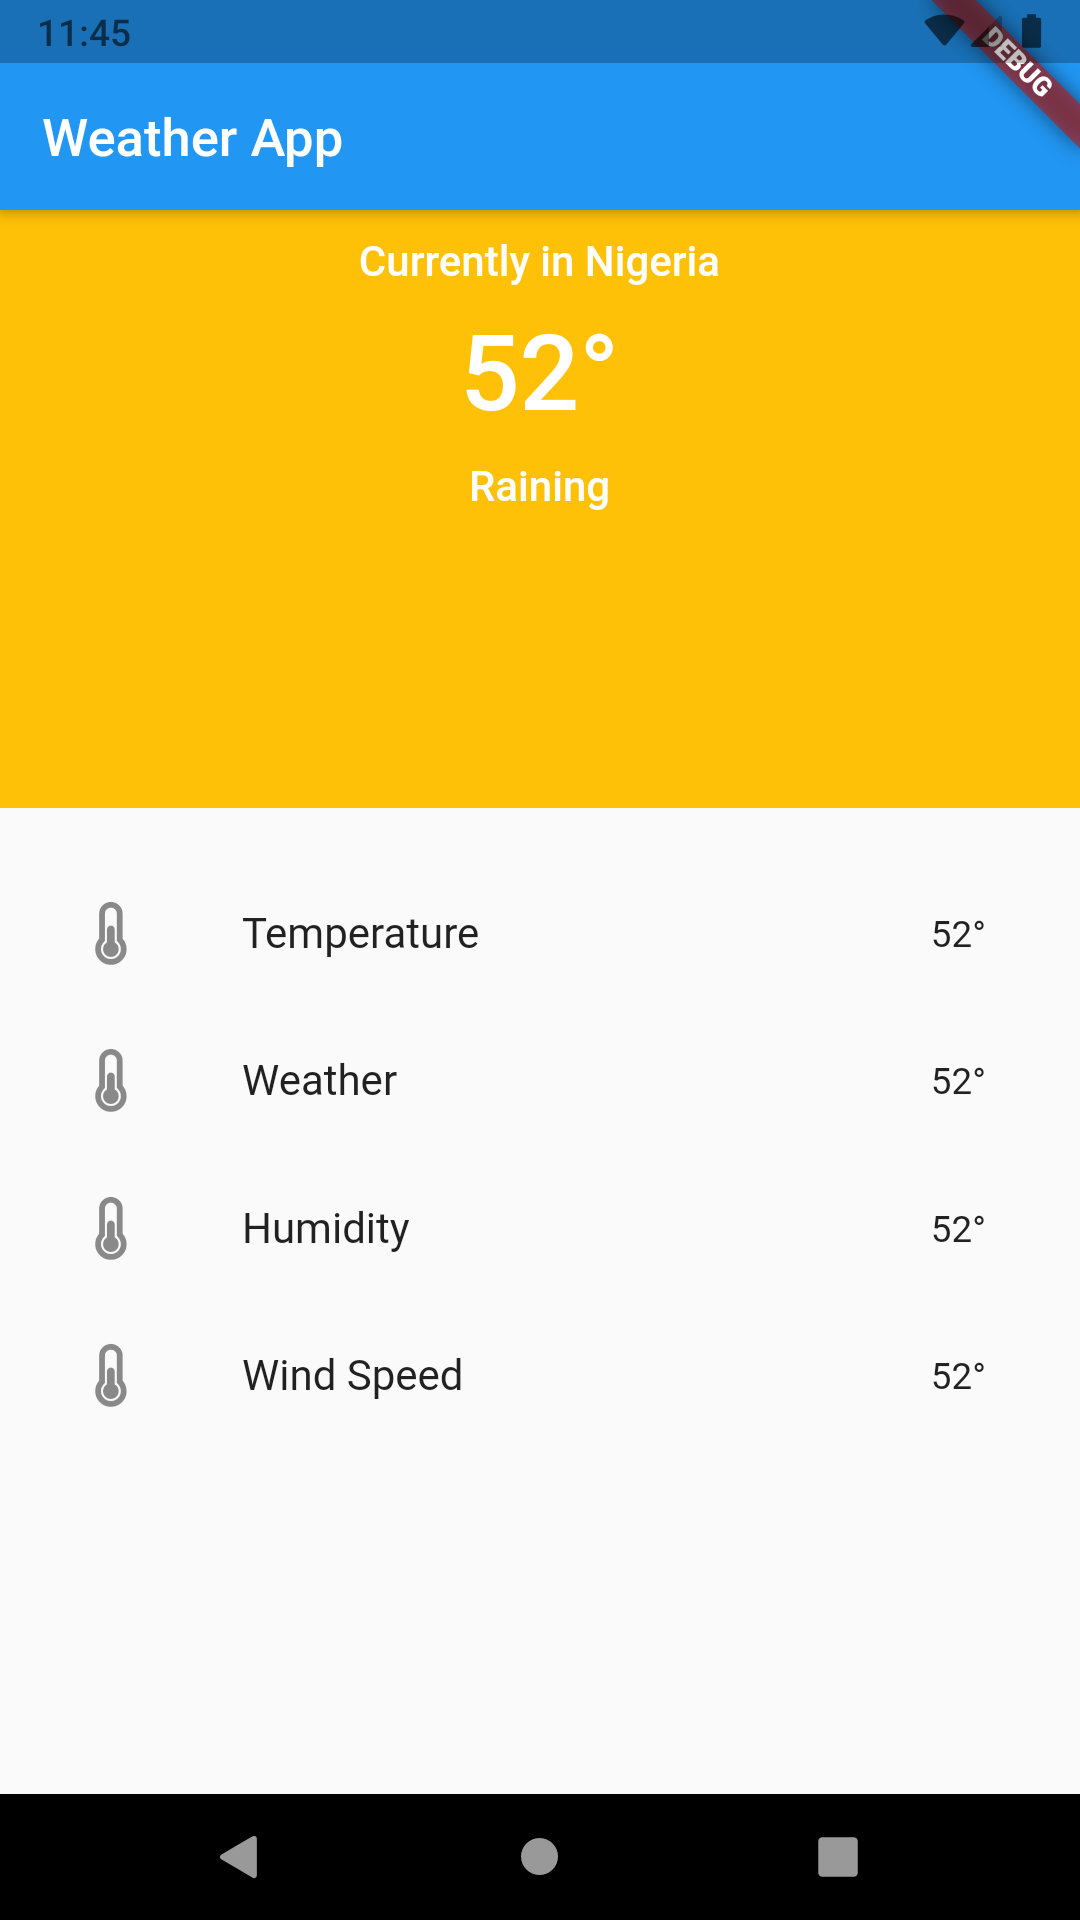
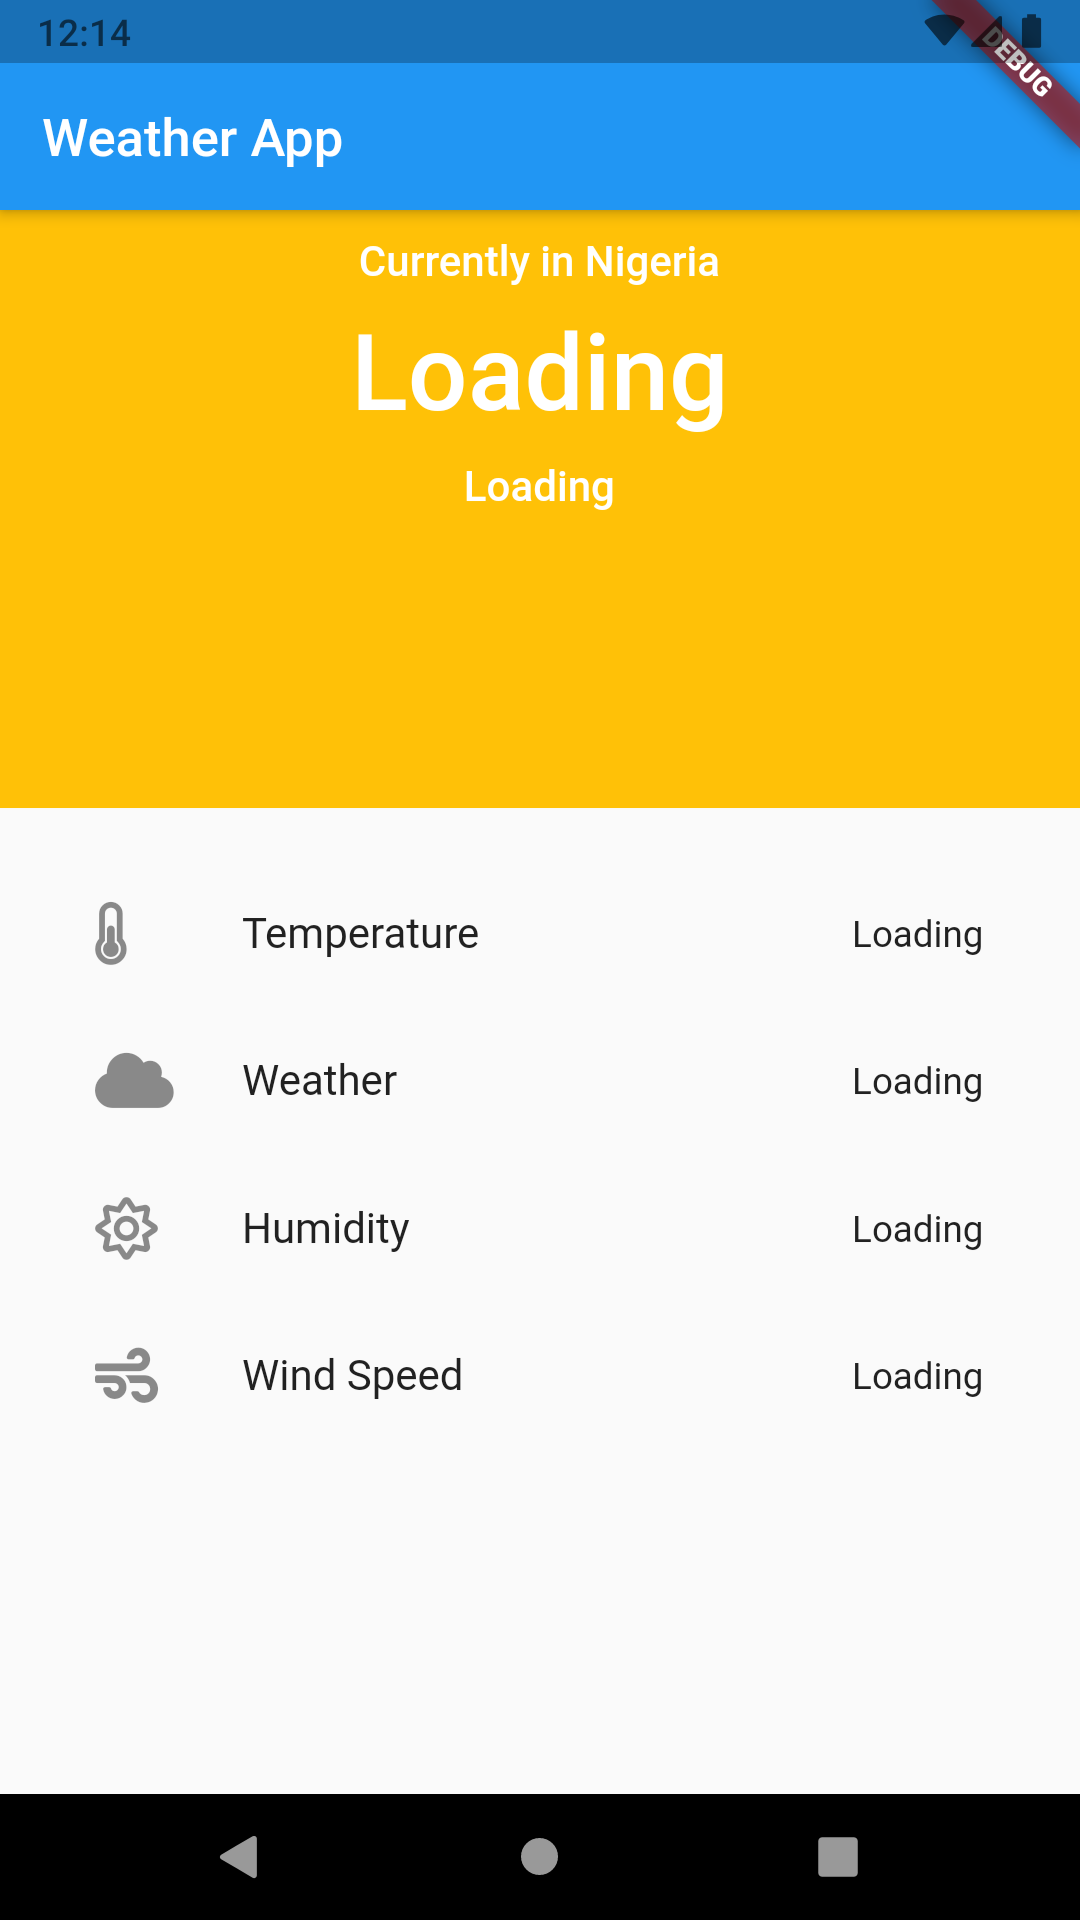
screenshot commit

diff --git a/lib/main.dart b/lib/main.dart
@@ -56,7 +56,7 @@ class _MyHomePageState extends State<MyHomePage> {
   var wind;
 
   Future getWeather () async{
-    Uri uri = 'http://api.openweathermap.org/data/2.5/weather?q=abuja&appid=722f8452241fd8024bfeeaaa3eb998bc' as Uri;
+    Uri uri = 'https://api.openweathermap.org/data/2.5/weather?q=abuja&appid=722f8452241fd8024bfeeaaa3eb998bc' as Uri;
     http.Response res = await http.get(uri);
     var ans = jsonDecode(res.body);
     setState((){
@@ -66,6 +66,11 @@ class _MyHomePageState extends State<MyHomePage> {
       this.hum = ans['main']['humidity'];
       this.wind = ans['wind']['speed'];
     });
+  }
+  @override
+  void initState(){
+    super.initState();
+    this.getWeather();
   }
   @override
   Widget build(BuildContext context) {
@@ -118,7 +123,7 @@ class _MyHomePageState extends State<MyHomePage> {
                     ),
                   ),
                   Text(
-                    "52\u00B0",
+                    temp != null ? temp.toString() + "\u00B0" : "Loading",
                     style: TextStyle(
                     color: Colors.white,
                     fontSize: 40.0,
@@ -127,7 +132,8 @@ class _MyHomePageState extends State<MyHomePage> {
                   ),
                   Padding(
                     padding: EdgeInsets.only(top: 10.0),
-                    child: Text("Raining",
+                    child: Text(
+                    curr != null ? curr.toString() : "Loading",
                       style: TextStyle(
                           color: Colors.white,
                           fontSize: 16.0,
@@ -146,22 +152,22 @@ class _MyHomePageState extends State<MyHomePage> {
                     ListTile(
                       leading: FaIcon(FontAwesomeIcons.thermometerHalf),
                       title: Text("Temperature"),
-                      trailing: Text("52\u00B0"),
+                      trailing: Text(temp != null ? temp.toString() + "\u00B0" : "Loading"),
                     ),
                     ListTile(
-                      leading: FaIcon(FontAwesomeIcons.thermometerHalf),
+                      leading: FaIcon(FontAwesomeIcons.cloud),
                       title: Text("Weather"),
-                      trailing: Text("52\u00B0"),
+                      trailing: Text(desc != null ? desc.toString() : "Loading"),
                     ),
                     ListTile(
-                      leading: FaIcon(FontAwesomeIcons.thermometerHalf),
+                      leading: FaIcon(FontAwesomeIcons.sun),
                       title: Text("Humidity"),
-                      trailing: Text("52\u00B0"),
+                      trailing: Text(hum != null ? hum.toString() : "Loading"),
                     ),
                     ListTile(
-                      leading: FaIcon(FontAwesomeIcons.thermometerHalf),
+                      leading: FaIcon(FontAwesomeIcons.wind),
                       title: Text("Wind Speed"),
-                      trailing: Text("52\u00B0"),
+                      trailing: Text(wind != null ? wind.toString() : "Loading"),
                     )
                   ],
                 ),
